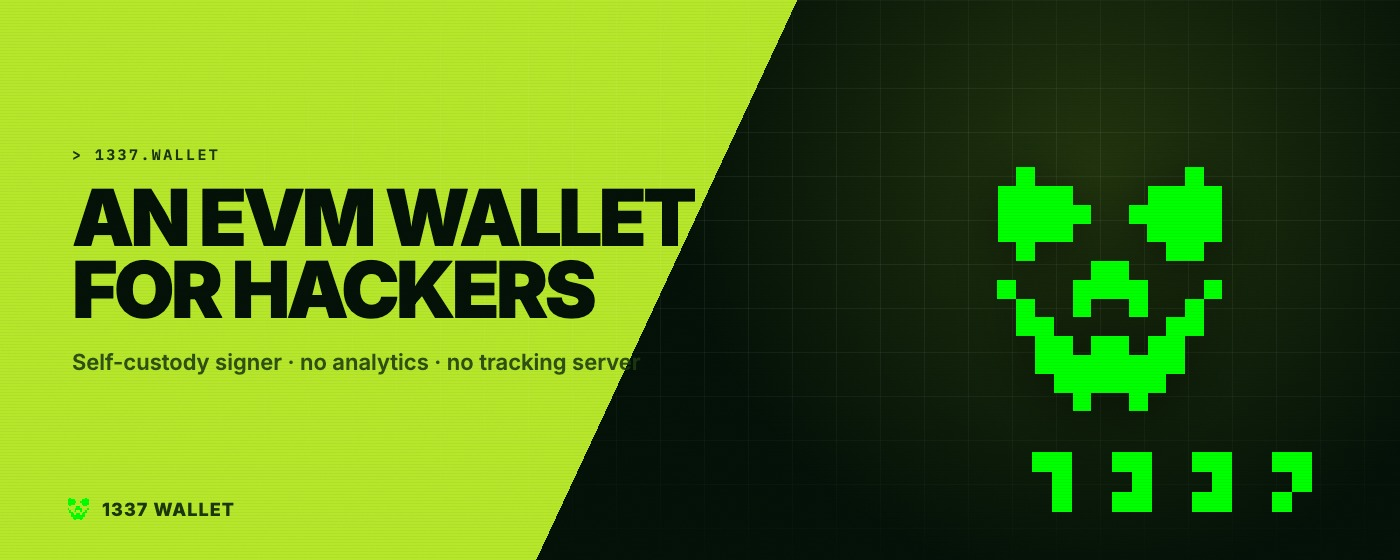
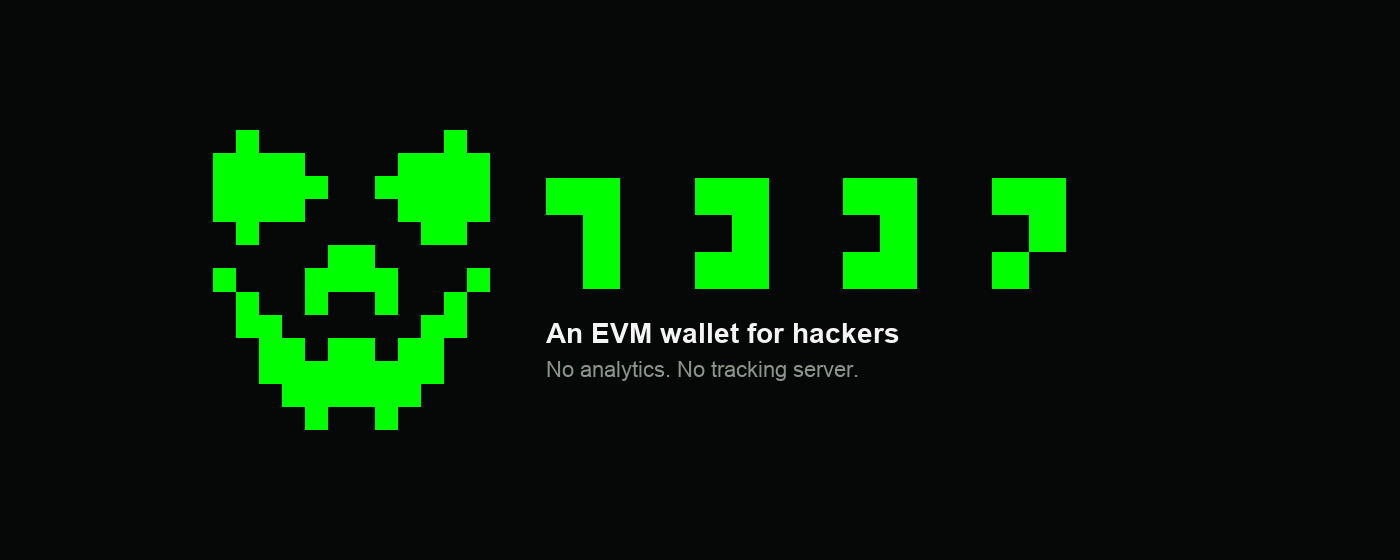
Refresh store listing copy and promo tiles for 2.2.1
Match the site voice, put the official pixel marks on a flat canvas, and keep extra framed shots ready for the listing.

diff --git a/scripts/store-listing-composite.py b/scripts/store-listing-composite.py
@@ -5,11 +5,14 @@ from __future__ import annotations
 import sys
 from pathlib import Path
 
-from PIL import Image, ImageDraw
+from PIL import Image, ImageDraw, ImageFont
 
 BG = (5, 8, 6)
-ACCENT = (34, 197, 94)
-MUTED = (156, 163, 175)
+ACCENT = (0, 255, 0)
+MUTED = (140, 148, 140)
+INK = (244, 244, 245)
+FONT_BOLD = Path('/System/Library/Fonts/Supplemental/Arial Bold.ttf')
+FONT_REG = Path('/System/Library/Fonts/Supplemental/Arial.ttf')
 
 
 def load_on_bg(path: Path) -> Image.Image:
@@ -38,26 +41,79 @@ def store_icon(src: Path, dest: Path) -> None:
     save_png(im, dest)
 
 
+def punch_mark(path: Path) -> Image.Image:
+    """Keep only the green pixels. No baked black or dark-green box."""
+    im = Image.open(path).convert('RGBA')
+    px = im.load()
+    w, h = im.size
+    for y in range(h):
+        for x in range(w):
+            r, g, b, a = px[x, y]
+            if a < 16 or g < 80 or r > 80 or b > 80:
+                px[x, y] = (0, 0, 0, 0)
+            else:
+                px[x, y] = (0, 255, 0, 255)
+    box = im.getbbox()
+    return im.crop(box) if box else im
+
+
+def pixel_fit(im: Image.Image, box: tuple[int, int]) -> Image.Image:
+    w, h = im.size
+    scale = min(box[0] / w, box[1] / h)
+    nw = max(1, int(round(w * scale)))
+    nh = max(1, int(round(h * scale)))
+    return im.resize((nw, nh), Image.Resampling.NEAREST)
+
+
+def paste_mark(canvas: Image.Image, mark: Image.Image, xy: tuple[int, int]) -> None:
+    canvas.paste(mark, xy, mark)
+
+
+def font(path: Path, size: int) -> ImageFont.FreeTypeFont | ImageFont.ImageFont:
+    try:
+        return ImageFont.truetype(str(path), size)
+    except OSError:
+        return ImageFont.load_default()
+
+
 def promo_small(skull: Path, word: Path, dest: Path) -> None:
     canvas = Image.new('RGB', (440, 280), BG)
-    s = fit(load_on_bg(skull), (150, 150))
-    w = fit(load_on_bg(word), (220, 72))
-    canvas.paste(s, (28, (280 - s.height) // 2))
-    canvas.paste(w, (200, 88))
+    s = pixel_fit(punch_mark(skull), (118, 130))
+    w = pixel_fit(punch_mark(word), (196, 48))
+    gap = 22
+    lock_w = s.width + gap + w.width
+    lock_h = max(s.height, w.height + 28)
+    x0 = (440 - lock_w) // 2
+    y0 = (280 - lock_h) // 2
+    paste_mark(canvas, s, (x0, y0 + (lock_h - s.height) // 2))
+    wx = x0 + s.width + gap
+    wy = y0 + (lock_h - w.height - 28) // 2
+    paste_mark(canvas, w, (wx, wy))
     draw = ImageDraw.Draw(canvas)
-    draw.text((200, 172), 'WALLET  ·  EVM SIGNER', fill=MUTED)
+    draw.text((wx, wy + w.height + 10), 'WALLET', font=font(FONT_BOLD, 16), fill=MUTED)
     save_jpg(canvas, dest)
 
 
 def promo_marquee(skull: Path, word: Path, dest: Path) -> None:
     canvas = Image.new('RGB', (1400, 560), BG)
-    s = fit(load_on_bg(skull), (380, 380))
-    w = fit(load_on_bg(word), (620, 180))
-    canvas.paste(s, (80, (560 - s.height) // 2))
-    canvas.paste(w, (520, 160))
+    s = pixel_fit(punch_mark(skull), (280, 300))
+    w = pixel_fit(punch_mark(word), (520, 120))
+    gap = 56
+    lock_w = s.width + gap + max(w.width, 640)
+    x0 = (1400 - lock_w) // 2
+    paste_mark(canvas, s, (x0, (560 - s.height) // 2))
+    wx = x0 + s.width + gap
+    block_h = w.height + 28 + 36 + 28
+    wy = (560 - block_h) // 2
+    paste_mark(canvas, w, (wx, wy))
     draw = ImageDraw.Draw(canvas)
-    draw.text((524, 360), 'Self-custody signer  ·  no analytics  ·  no tracking server', fill=MUTED)
-    draw.rectangle((0, 0, 8, 560), fill=ACCENT)
+    draw.text((wx, wy + w.height + 28), 'An EVM wallet for hackers', font=font(FONT_BOLD, 28), fill=INK)
+    draw.text(
+        (wx, wy + w.height + 68),
+        'No analytics. No tracking server.',
+        font=font(FONT_REG, 22),
+        fill=MUTED,
+    )
     save_jpg(canvas, dest)
 
 
